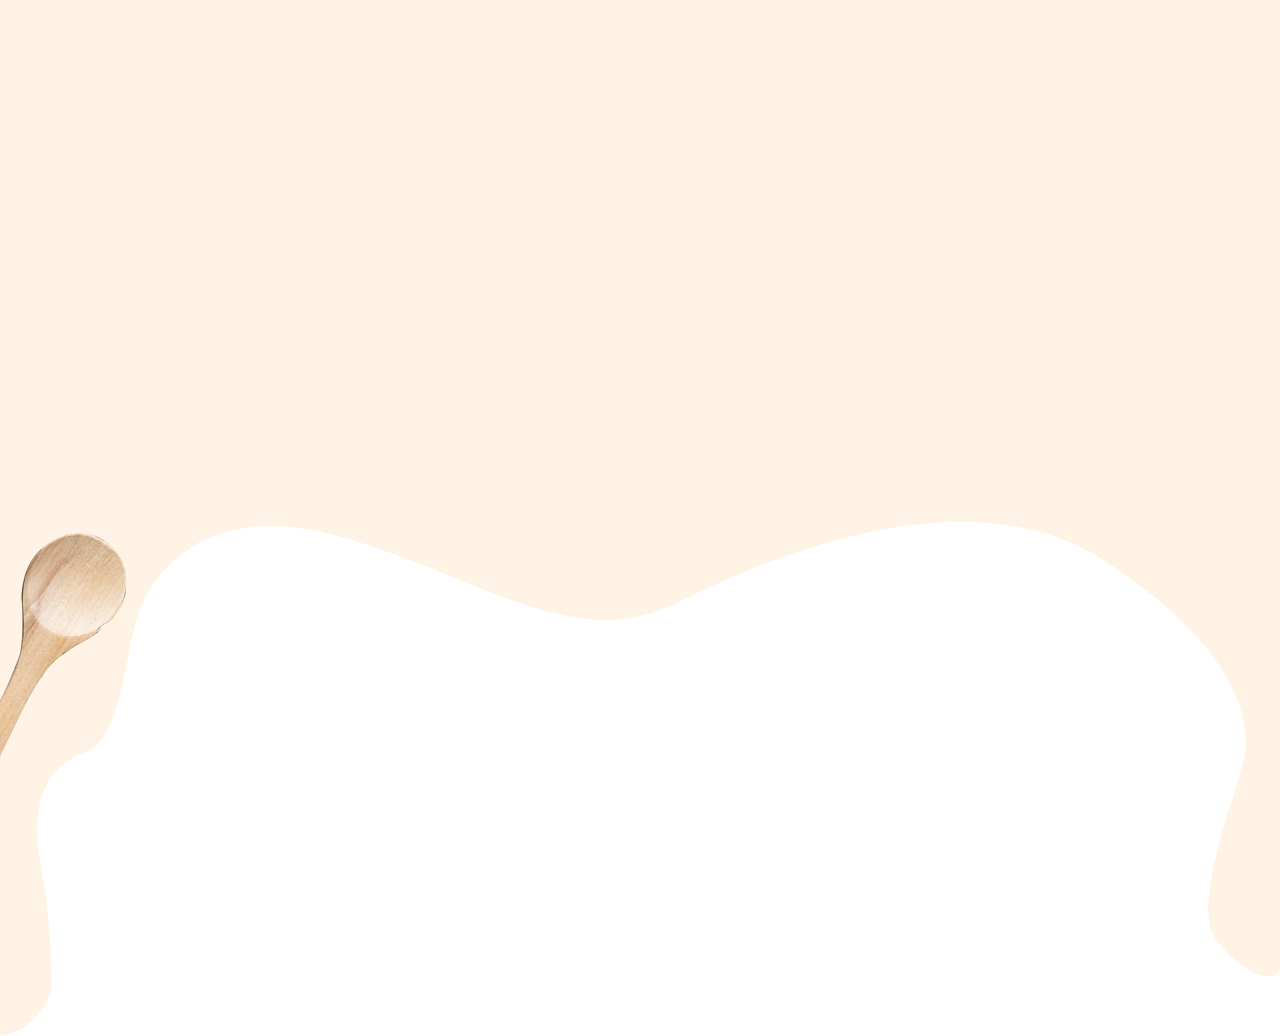
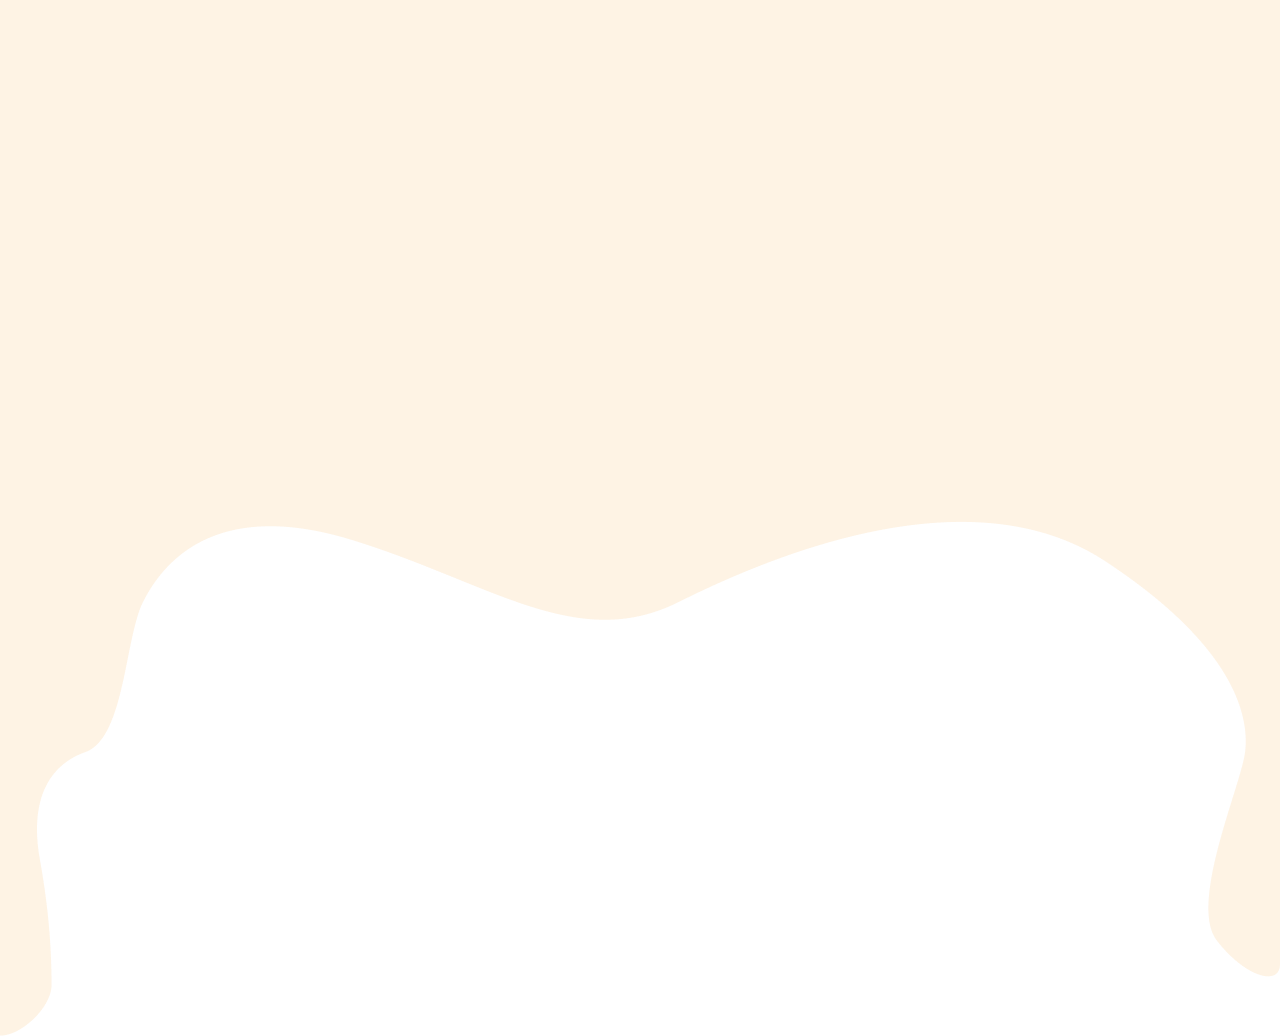
fix bg

Changed region(s): [[0.0, 0.4942, 0.125, 0.7104]]

diff --git a/src/sass/base/_base.scss b/src/sass/base/_base.scss
@@ -43,14 +43,16 @@ body {
 
   @media screen and (min-width: 1280px) {
     background-color: var(--regestration-box-clr);
-    background-position: center top, right bottom;
-    background-size: 100% 1035px, 100% 2073px;
-    background-image: url(../images/desktop/header-bg/desktop-header-bg@1x.png),
+    background-position: left 0px top 541px, center top, right bottom;
+    background-size: auto, 100% 1035px, 100% 1950px;
+    background-image: url(../images/desktop/header-bg/header-spoon@1x.png),
+      url(../images/desktop/header-bg/desktop-header-bg@1x.png),
       url(../images/desktop/reviews-bg/bg.png);
     @media (min-device-pixel-ratio: 2),
       (min-resolution: 192dpi),
       (min-resolution: 2dppx) {
-      background-image: url(../images/desktop/header-bg/desktop-header-bg@2x.png),
+      background-image: url(../images/desktop/header-bg/header-spoon@2x.png),
+        url(../images/desktop/header-bg/desktop-header-bg@2x.png),
         url(../images/desktop/reviews-bg/bg@2x.png);
     }
   }

diff --git a/src/sass/components/_logo.scss b/src/sass/components/_logo.scss
@@ -55,26 +55,4 @@
 
 .logo-link {
   display: inline-flex;
-  transform: scale(1);
-  transition: transform 250ms linear;
-  // &:hover,
-  // &:focus {
-  //   transform: scale(1.1);
-  // }
 }
-// .logo__md {
-//   @media screen and (max-width: 1279px) {
-//     display: block;
-//   }
-//   @media screen and (min-width: 1280px) {
-//     display: none;
-//   }
-// }
-// .logo__lg {
-//   @media screen and (max-width: 1279px) {
-//     display: none;
-//   }
-//   @media screen and (min-width: 1280px) {
-//     display: block;
-//   }
-// }
